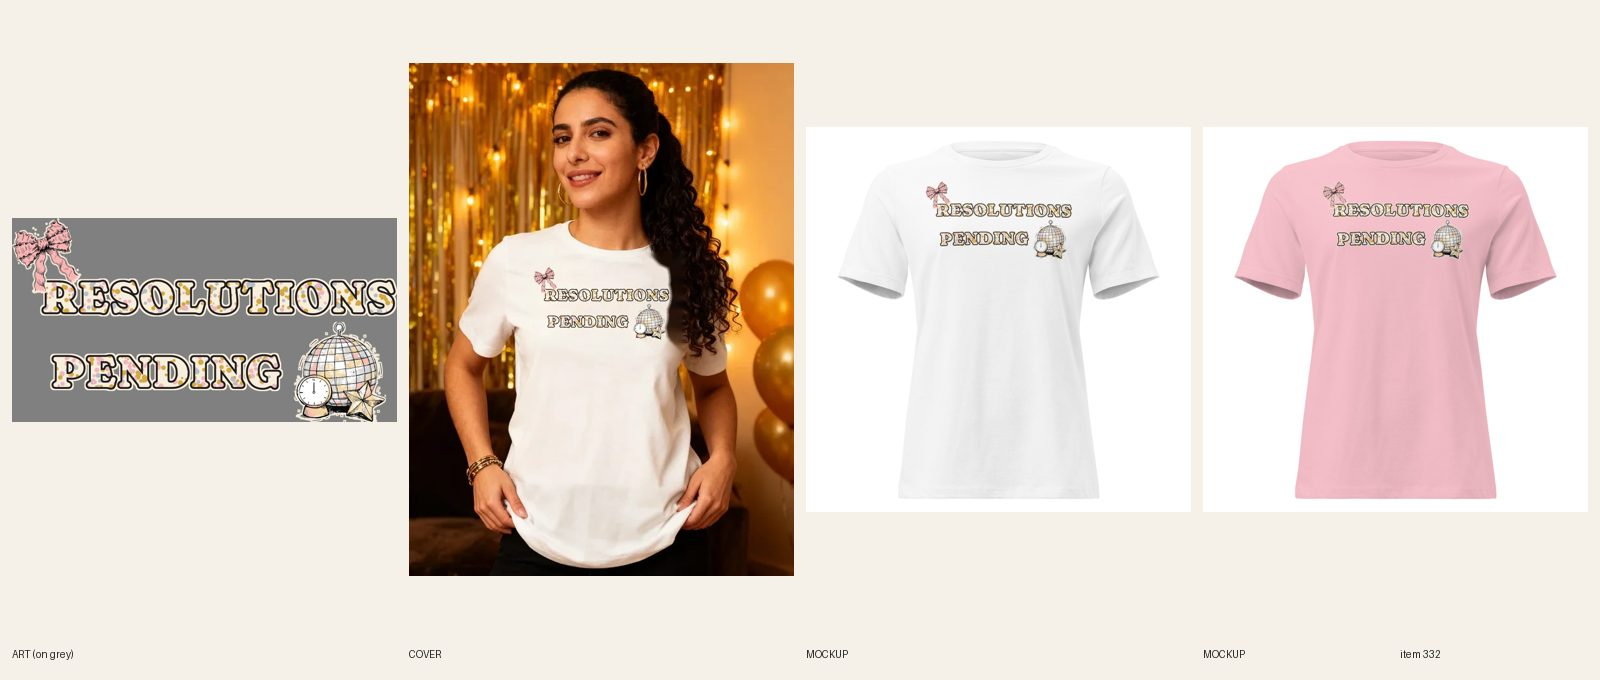
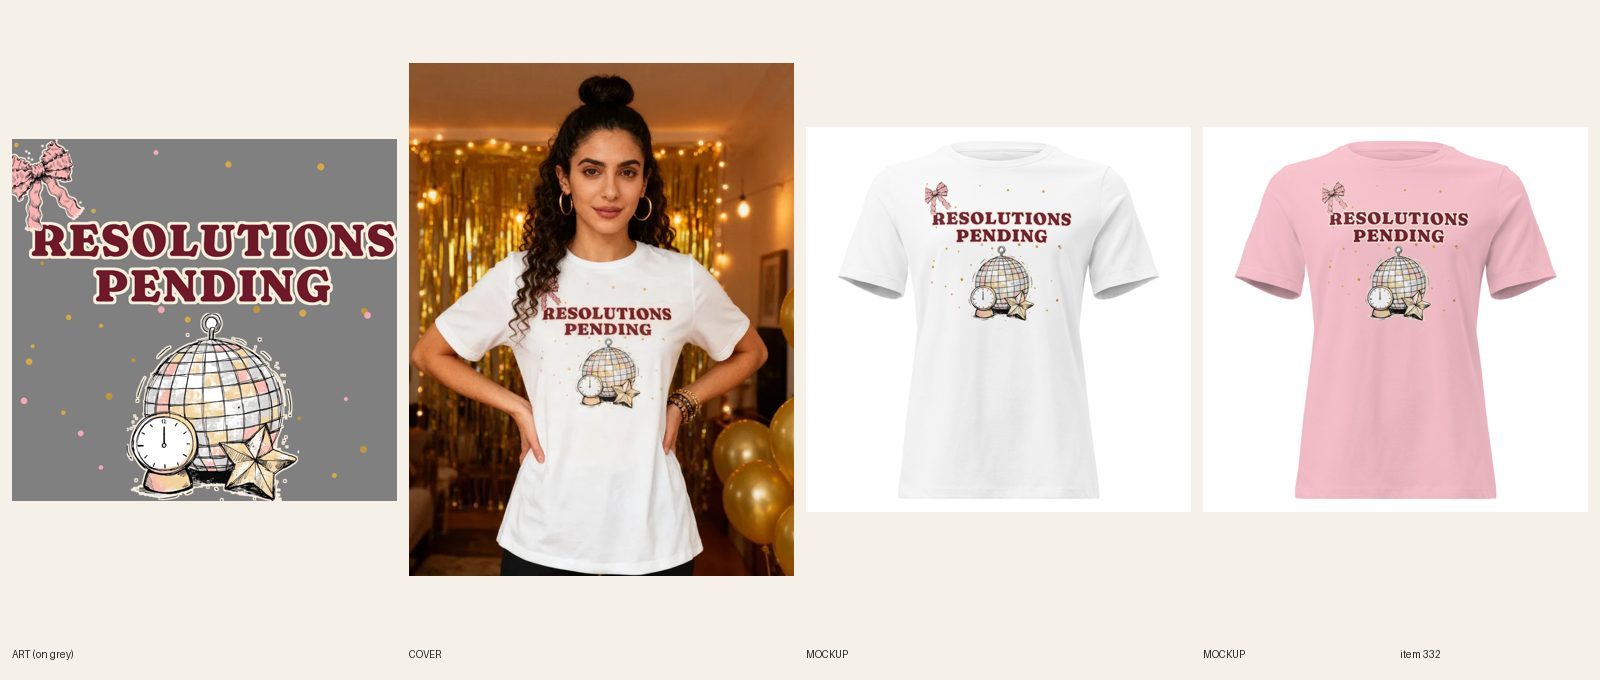
[A] review 332 Resolutions Pending REDO: solid letters, taller stack
Claude-Session: https://claude.ai/code/session_01TsWHYwEQ2LyKMjvyqfq1FM

Changed region(s): [[0.0, 0.0926, 0.5, 0.8647], [0.5625, 0.2779, 0.6875, 0.4632], [0.8125, 0.2779, 0.9375, 0.4632]]

diff --git a/docs/model-registry.md b/docs/model-registry.md
@@ -411,7 +411,7 @@ Rows 11–43 were re-pointed on 2026-10-08 when the briefs were rewritten from d
 | 518 | Samoan-American man, early 30s, long dark hair in a low bun, broad shoulders, clean-shaven | RESERVED — #330 Surf's Down zip hoodie cover |
 | 519 | Ghanaian-American man, late 30s, shaved head, full black beard, warm smile | USED 2026-10-16 — #331 Midnight Is a Suggestion NYE tee cover (try 2 kept, 2 images) |
 | 520 | Vietnamese-American woman, late 30s, chin-length black bob with blunt bangs | USED 2026-10-16 — #331 Midnight Is a Suggestion NYE tee cover (try 2 kept, 2 images) |
-| 521 | Lebanese-American woman, early 30s, long dark spiral curls, gold hoops | USED 2026-10-18 — #332 Resolutions Pending NYE tee cover (seedream 2 attempts + R6.9 print composite for hair on the last S) |
+| 521 | Lebanese-American woman, early 30s, long dark spiral curls, gold hoops | USED 2026-10-18 — #332 Resolutions Pending NYE tee cover (seedream; redo 2026-10-18: 3rd generation with hair in a bun) |
 | 522 | White man, early 50s, short salt-and-pepper hair, clean-shaven, reading glasses pushed up on his head | USED 2026-10-18 — #333 New Year, Same Guy tee cover (seedream, 1 attempt; light stubble, no glasses on head) |
 | 523 | Cuban-American man, mid 30s, short skin fade, neat goatee | USED 2026-10-17 - #334 Laying Low Till Friday turkey hoodie cover (pair with #523-524) |
 | 524 | White woman, mid 40s, short silver-blonde bob, light laugh lines | USED 2026-10-17 - #334 Laying Low Till Friday turkey hoodie cover (pair with #523-524) |

diff --git a/docs/pipeline/332-nye-resolutions-pending.md b/docs/pipeline/332-nye-resolutions-pending.md
@@ -1,4 +1,4 @@
-status: REDO
+status: BUILDING [A] 2026-10-18 04:25
 lane: A
 type: new
 id: 332
